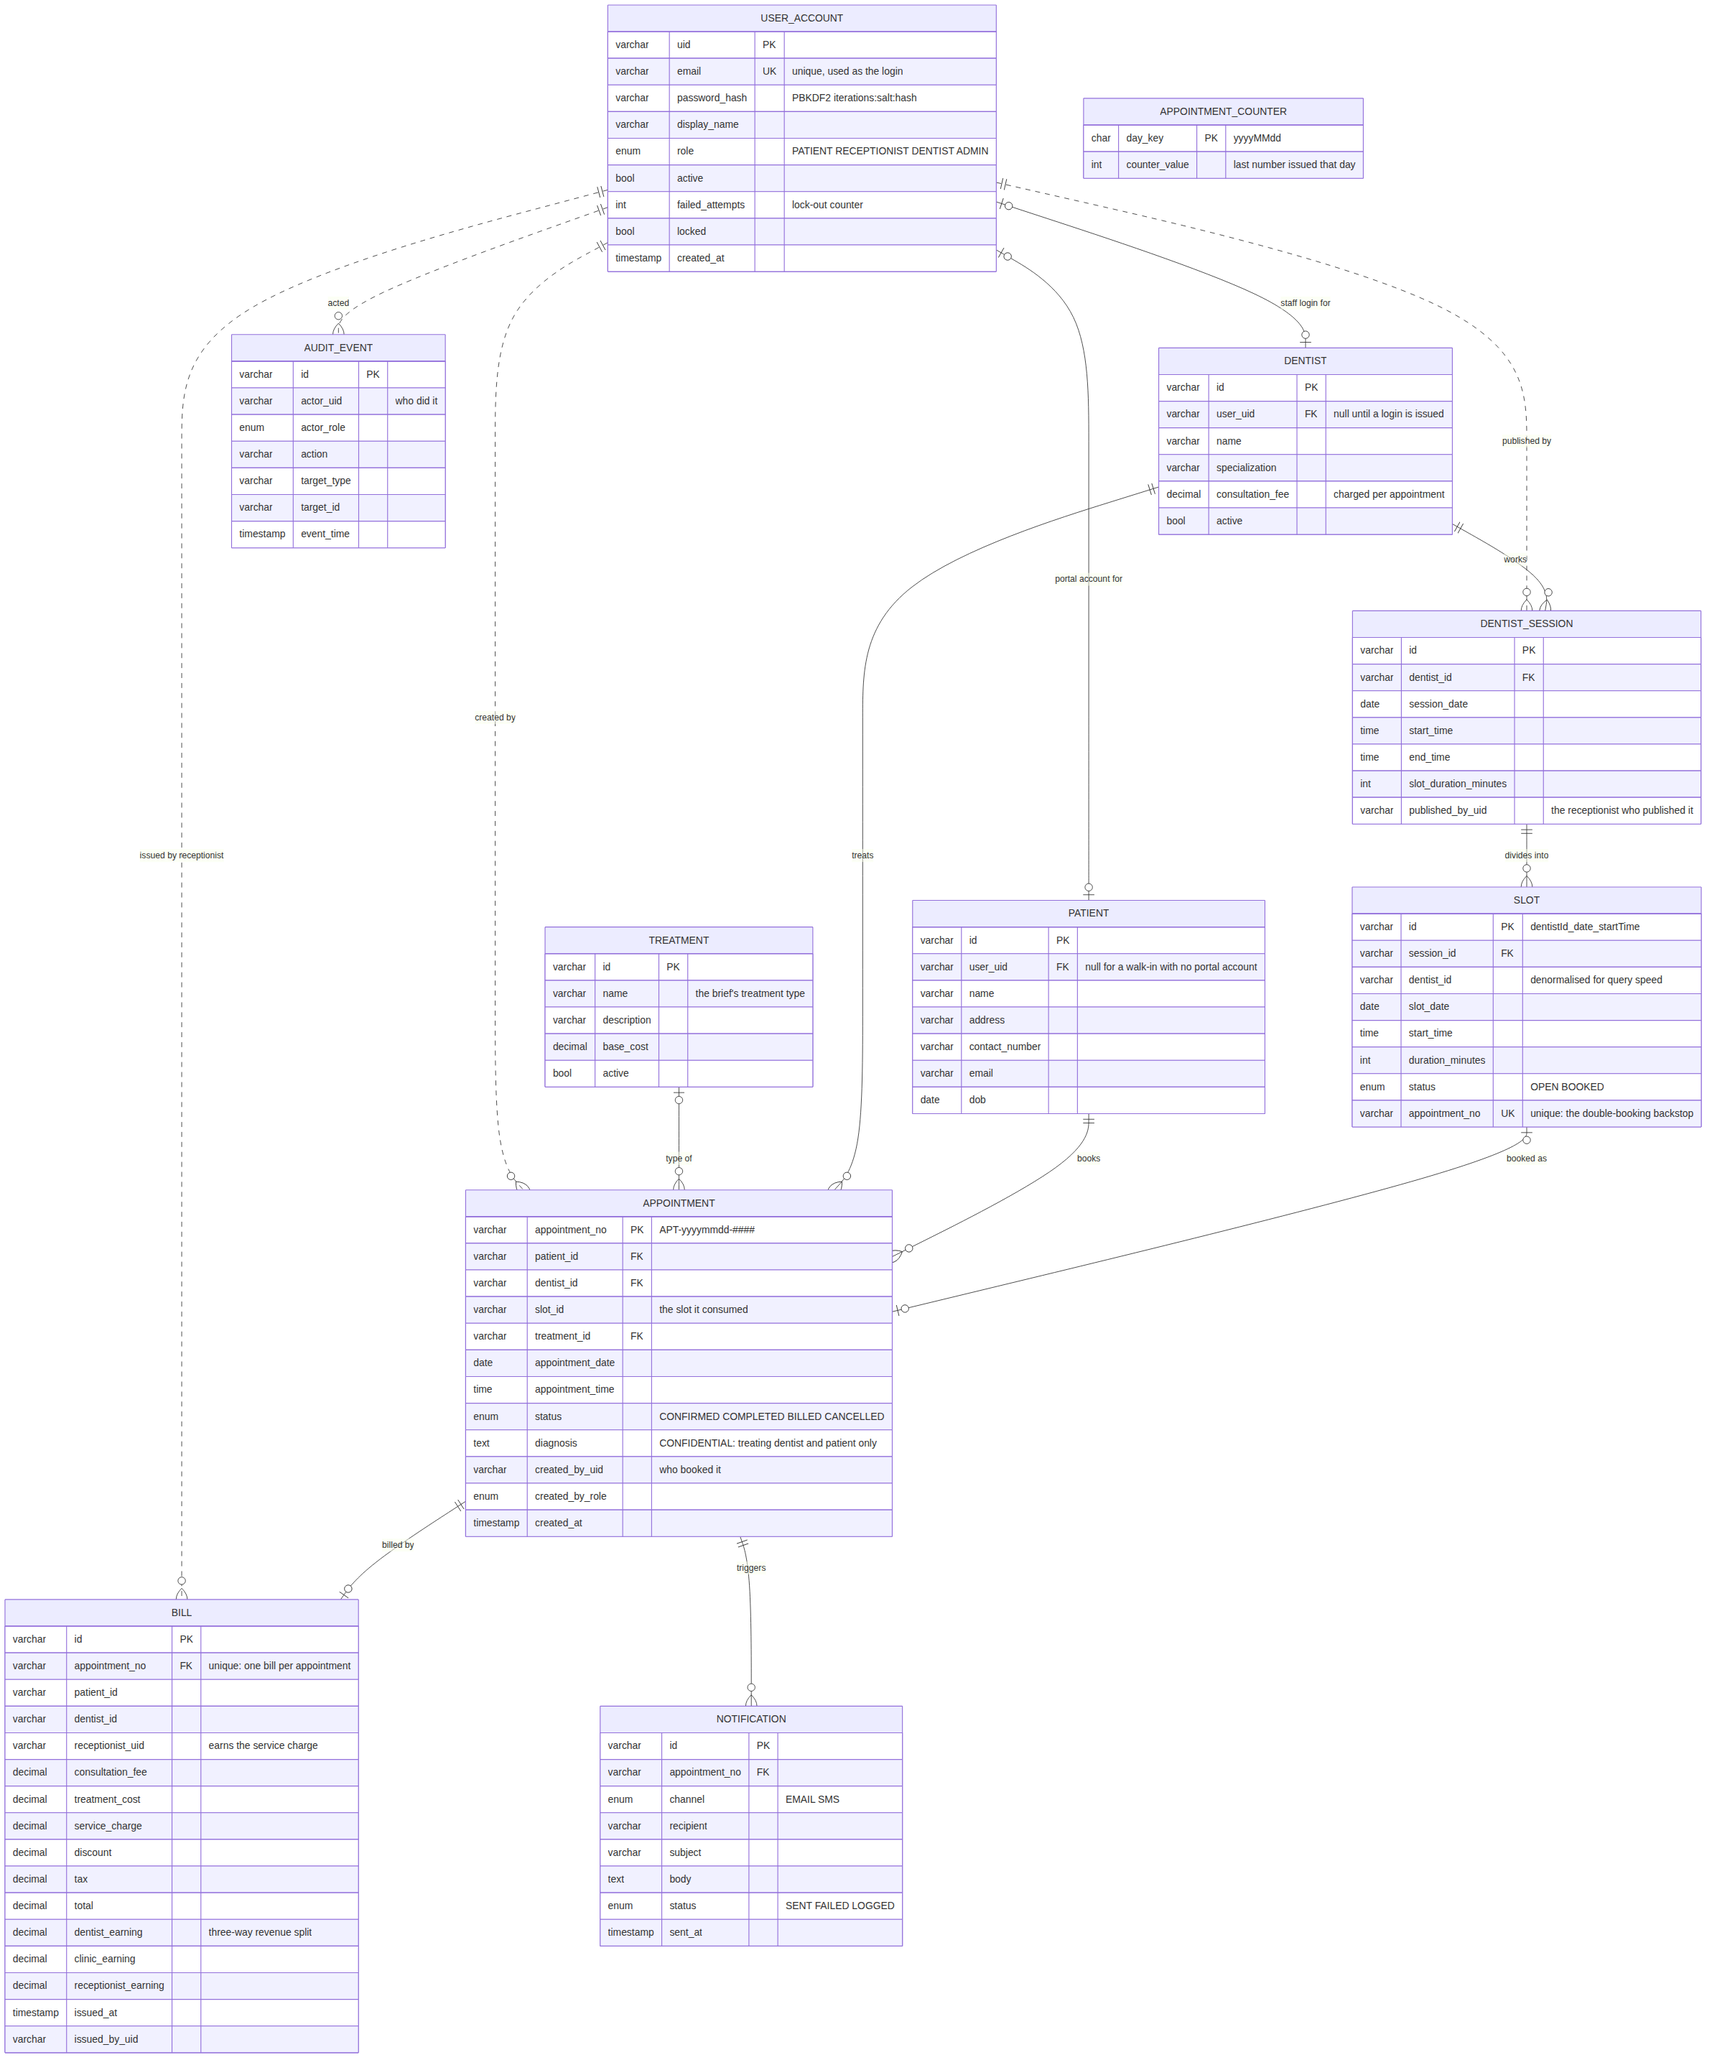
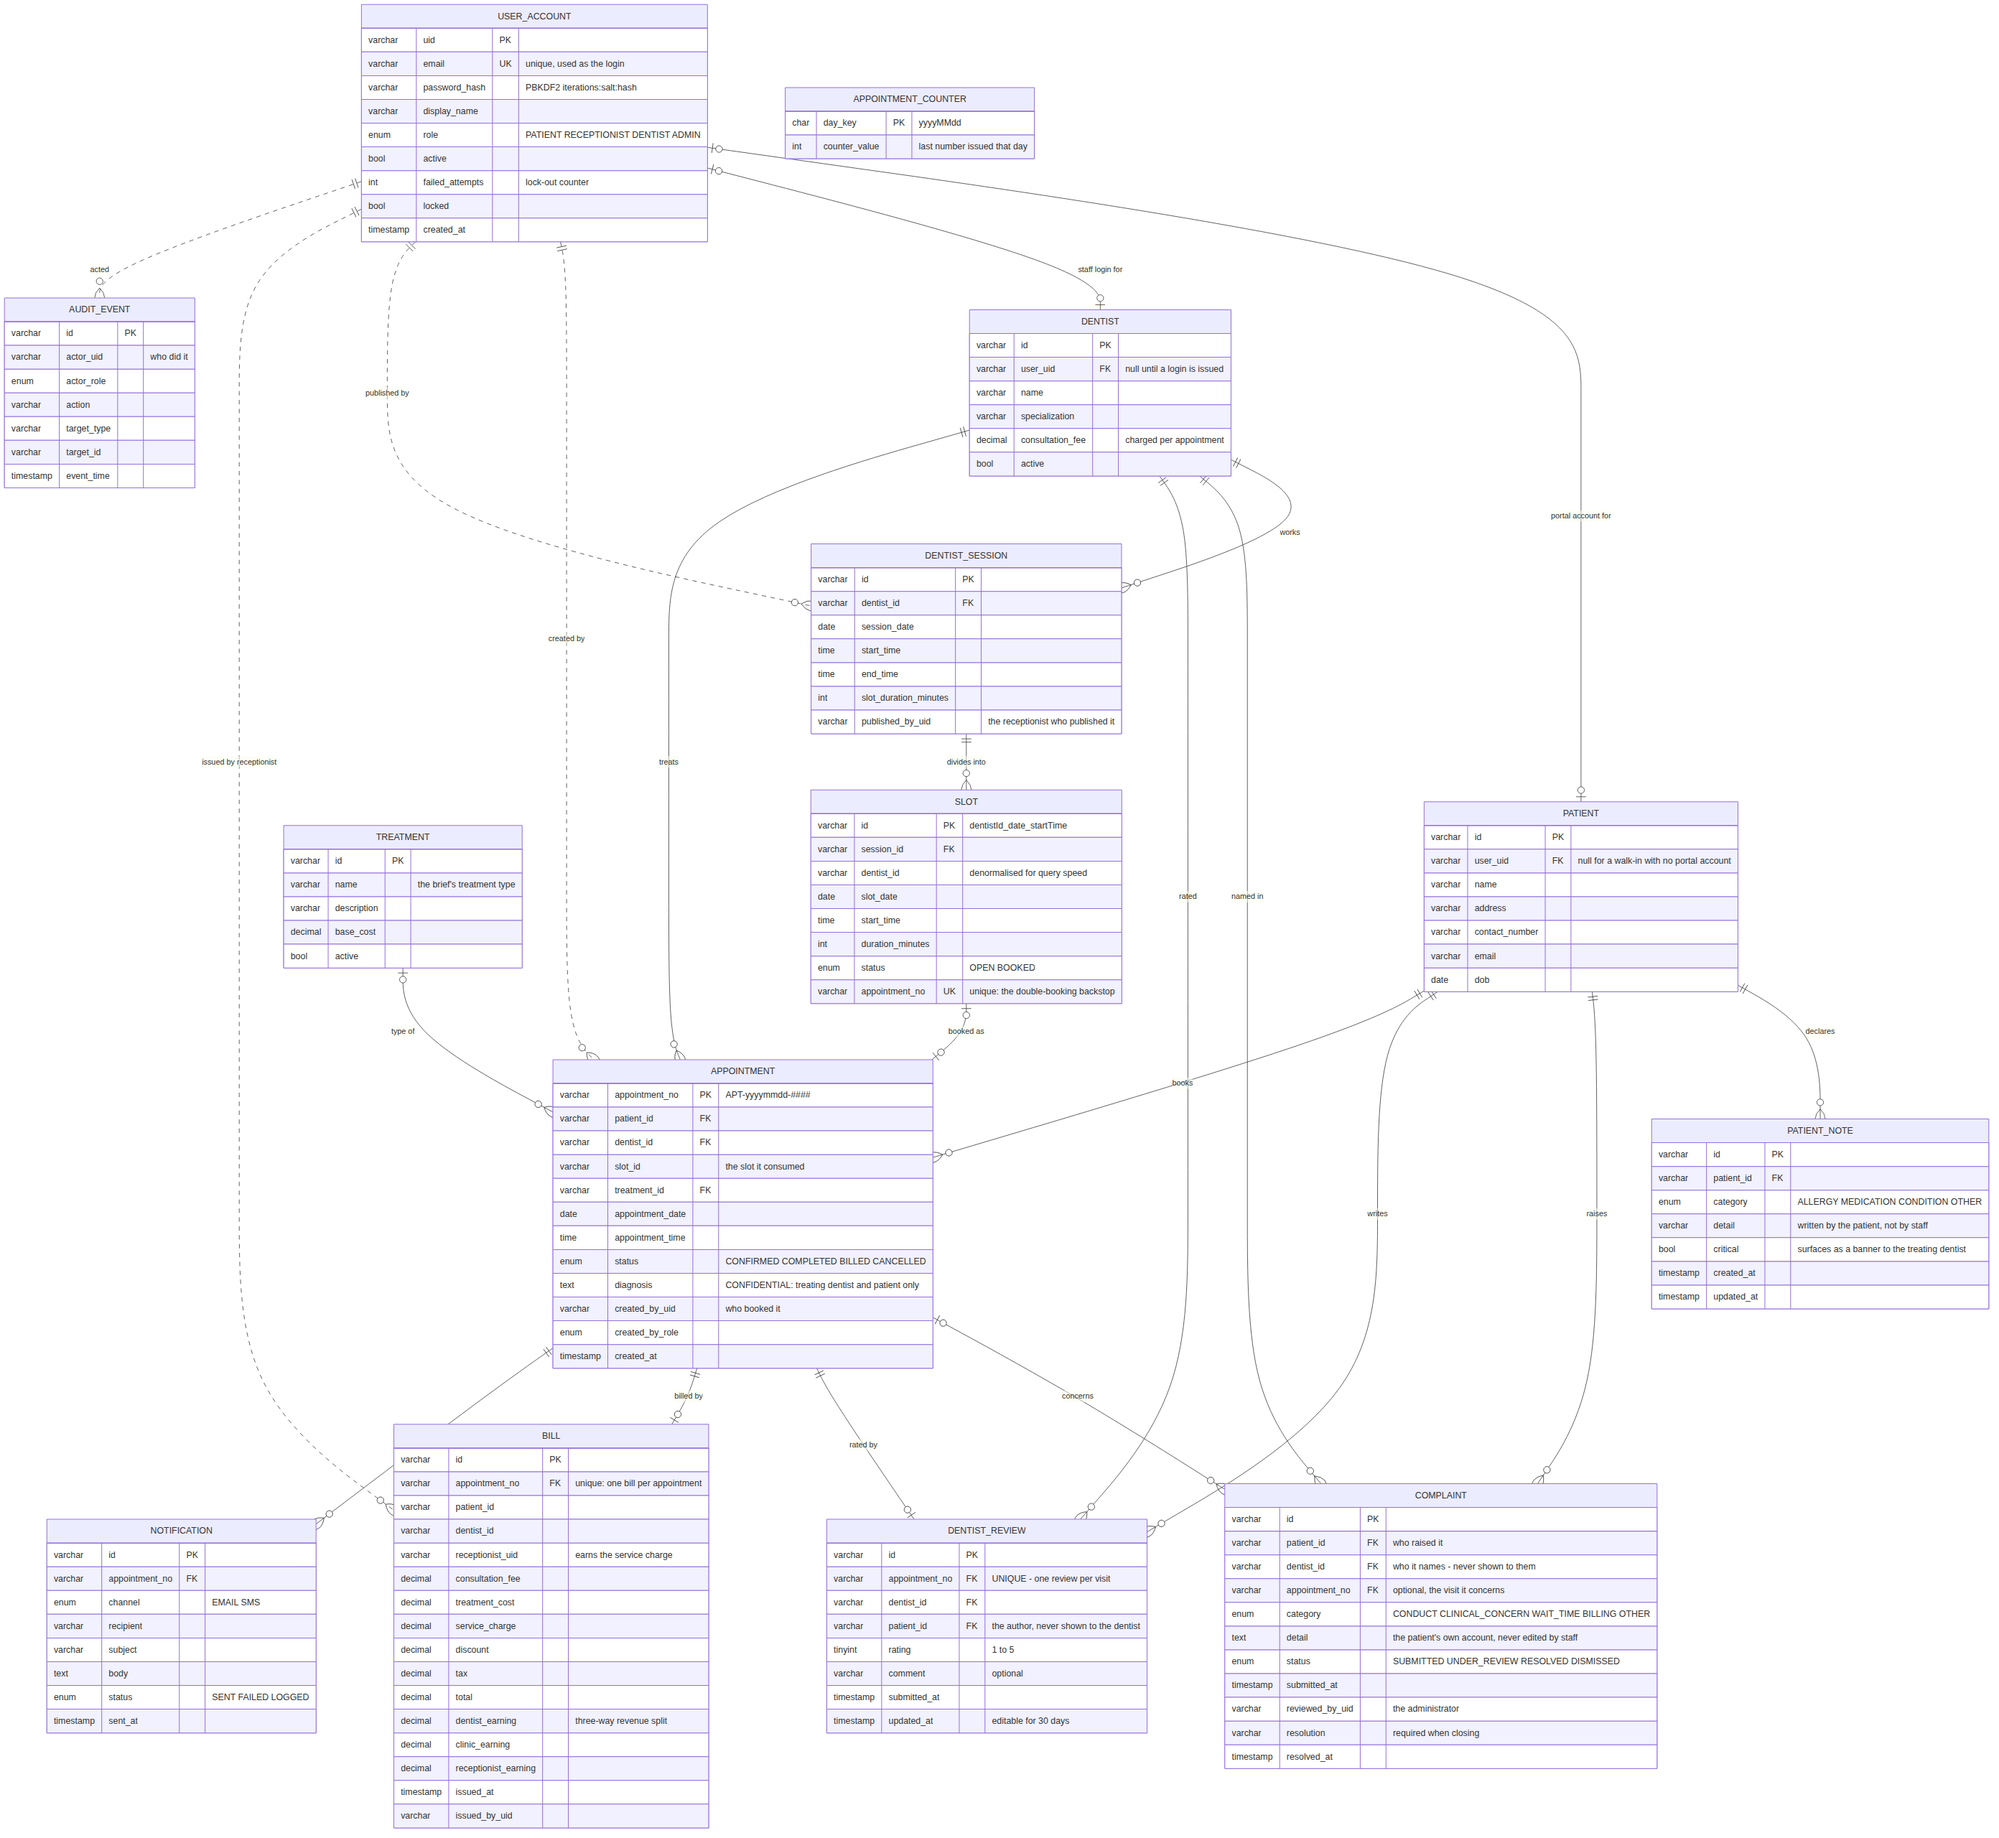
docs(er): three new tables for notes, complaints and reviews
Takes the schema from 11 tables to 14 and from 9 enforced foreign keys to 16.

- patient_note: what the patient declares about themselves, cascading with
  the patient. Composition, because a medical note is meaningless without
  the person it describes.
- complaint: keyed to the patient who raised it and the dentist named, with
  the appointment optional and ON DELETE SET NULL so a concern outlives a
  tidied appointment.
- dentist_review: UNIQUE on appointment_no, so one review per visit is
  enforced by the database rather than by a check that could be raced.

Also repoints the schema link at layered/, which the earlier folder split
broke, and corrects the mermaid source and rendered PNG to match.

The role access matrix now states the exclusions positively rather than
leaving them implied: reception never reads patient_note, complaint or
dentist_review; the administrator never reads patient_note; the dentist
never reads complaint and reads dentist_review only as an aggregate. One
table read at three different resolutions is why the dentist's response
object is a separate type and not a filtered one.

diff --git a/modular/docs/er-diagram.md b/modular/docs/er-diagram.md
@@ -1,10 +1,10 @@
 # Entity–Relationship Design
 
 Database design for the Sunrise Dental Clinic Appointment & Patient Management System.
-Eleven tables, MySQL 8, InnoDB throughout.
+Fourteen tables, MySQL 8, InnoDB throughout.
 
 This document is generated from the live schema in
-[`../src/main/resources/schema.sql`](../src/main/resources/schema.sql) — if the two ever
+[`../../layered/src/main/resources/schema.sql`](../../layered/src/main/resources/schema.sql) — if the two ever
 disagree, the schema is right and this file is stale.
 
 ---
@@ -96,6 +96,16 @@ erDiagram
         bool active
     }
 
+    PATIENT_NOTE {
+        varchar id PK
+        varchar patient_id FK
+        enum category "ALLERGY MEDICATION CONDITION OTHER"
+        varchar detail "written by the patient, not by staff"
+        bool critical "surfaces as a banner to the treating dentist"
+        timestamp created_at
+        timestamp updated_at
+    }
+
     DENTIST_SESSION {
         varchar id PK
         varchar dentist_id FK
@@ -162,6 +172,31 @@ erDiagram
         timestamp sent_at
     }
 
+    COMPLAINT {
+        varchar id PK
+        varchar patient_id FK "who raised it"
+        varchar dentist_id FK "who it names - never shown to them"
+        varchar appointment_no FK "optional, the visit it concerns"
+        enum category "CONDUCT CLINICAL_CONCERN WAIT_TIME BILLING OTHER"
+        text detail "the patient's own account, never edited by staff"
+        enum status "SUBMITTED UNDER_REVIEW RESOLVED DISMISSED"
+        timestamp submitted_at
+        varchar reviewed_by_uid "the administrator"
+        varchar resolution "required when closing"
+        timestamp resolved_at
+    }
+
+    DENTIST_REVIEW {
+        varchar id PK
+        varchar appointment_no FK "UNIQUE - one review per visit"
+        varchar dentist_id FK
+        varchar patient_id FK "the author, never shown to the dentist"
+        tinyint rating "1 to 5"
+        varchar comment "optional"
+        timestamp submitted_at
+        timestamp updated_at "editable for 30 days"
+    }
+
     AUDIT_EVENT {
         varchar id PK
         varchar actor_uid "who did it"
@@ -184,6 +219,13 @@ erDiagram
     DENTIST_SESSION ||--o{ SLOT         : "divides into"
     SLOT         |o--o| APPOINTMENT     : "booked as"
 
+    PATIENT      ||--o{ PATIENT_NOTE : "declares"
+    PATIENT      ||--o{ COMPLAINT : "raises"
+    DENTIST      ||--o{ COMPLAINT : "named in"
+    APPOINTMENT  |o--o{ COMPLAINT : "concerns"
+    APPOINTMENT  ||--o| DENTIST_REVIEW : "rated by"
+    DENTIST      ||--o{ DENTIST_REVIEW : "rated"
+    PATIENT      ||--o{ DENTIST_REVIEW : "writes"
     PATIENT      ||--o{ APPOINTMENT : "books"
     DENTIST      ||--o{ APPOINTMENT : "treats"
     TREATMENT    |o--o{ APPOINTMENT : "type of"
@@ -219,25 +261,42 @@ their own tables would create rows with nothing in them.
 
 | Role | Reads | Writes |
 |---|---|---|
-| **Patient** | own `appointment`, own `bill`, `slot` (open only), `dentist`, `treatment` | `appointment` (book, cancel), own `patient` row at registration |
-| **Receptionist** | all `patient`, `appointment`, `slot`, `dentist`, `treatment` | `patient` (walk-in), `dentist_session` + `slot` (publish availability), `appointment` (book on behalf), `bill` (issue) |
-| **Dentist** | own `slot`, own `appointment` incl. `diagnosis` | `appointment.diagnosis`, `appointment.status` → `COMPLETED` |
-| **Admin** | `bill` and `appointment` aggregates, `user_account`, `audit_event` | `user_account` (unlock, activate) |
+| **Patient** | own `appointment`, own `bill`, **own `patient_note`**, **own `complaint`**, **own `dentist_review`**, `slot` (open only), `dentist`, `treatment` | `appointment` (book, cancel), own `patient` row at registration, **own `patient_note`**, **insert `complaint`** |
+| **Receptionist** | all `patient`, `appointment`, `slot`, `dentist`, `treatment`. **Never `patient_note`, never `complaint`, never `dentist_review`** | `patient` (walk-in), `dentist_session` + `slot` (publish availability), `appointment` (book on behalf), `bill` (issue) |
+| **Dentist** | own `slot`, own `appointment` incl. `diagnosis`, **`patient_note` for patients on their own schedule**. **Never `complaint`, including complaints naming them**. **`dentist_review` as an aggregate only** — mean and count, never a row | `appointment.diagnosis`, `appointment.status` → `COMPLETED` |
+| **Admin** | `bill` and `appointment` aggregates, `user_account`, `audit_event`, **all `complaint`**, **all `dentist_review`** including comments. **Never `patient_note`** | `user_account` (unlock, deactivate), `complaint.status` and `complaint.resolution` |
 
-Two constraints on that table are enforced in code rather than in the schema, and both are
-worth stating in the report:
+Three constraints are enforced in code rather than in the schema, and all three are worth
+stating in the report:
 
 - **`appointment.diagnosis` is field-level confidential.** Only the treating dentist and the
   patient may see it. Enforced by serving a different DTO to everyone else, so the column
   cannot leak through a shared response object by accident.
+- **`patient_note` is confidential at the table level**, not the field level. It is readable
+  only by the patient who wrote it and by a dentist treating them. Reception books the
+  appointment without ever learning the patient is allergic to penicillin; the administrator
+  reads revenue without seeing any clinical fact. Enforced the same way — no response object
+  served to those roles carries a field for it.
+- **`complaint` is confidential in the opposite direction to `patient_note`.** The administrator
+  reads it; the dentist it names never does, and neither does reception. Two tables, two rules
+  pointing opposite ways, and neither follows from seniority — access follows purpose. The
+  dentist has clinical need of an allergy; independence requires that the subject of a complaint
+  cannot read it.
+- **`dentist_review` is the one table read at three different resolutions.** The administrator
+  reads rows with comments and authors; the dentist reads a mean and a count and nothing else
+  (**NFR-SEC-13**); reception reads nothing. Same table, three answers — which is why the
+  aggregate is a separate query rather than a filter over the row response, and why the dentist's
+  response object has no field that could carry a comment.
 - **Every mutation writes an `audit_event`** carrying the actor's uid and role, which is how
-  a paper-trail question ("who moved this appointment?") is answerable at all.
+  a paper-trail question ("who moved this appointment?") is answerable at all. Every *read* of a
+  complaint is audited too (**FR-CMP-11**) — unusual, and justified because the data is sensitive
+  enough that who looked at it matters.
 
 ---
 
 ## 4. Referential integrity — enforced and not
 
-Nine foreign keys are declared:
+Sixteen foreign keys are declared:
 
 | Constraint | From | To |
 |---|---|---|
@@ -245,6 +304,13 @@ Nine foreign keys are declared:
 | `fk_dentist_user` | `dentist.user_uid` | `user_account.uid` |
 | `fk_session_dentist` | `dentist_session.dentist_id` | `dentist.id` |
 | `fk_slot_session` | `slot.session_id` | `dentist_session.id` |
+| `fk_note_patient` | `patient_note.patient_id` | `patient.id` |
+| `fk_complaint_patient` | `complaint.patient_id` | `patient.id` |
+| `fk_complaint_dentist` | `complaint.dentist_id` | `dentist.id` |
+| `fk_complaint_appointment` | `complaint.appointment_no` | `appointment.appointment_no`, `ON DELETE SET NULL` |
+| `fk_review_appointment` | `dentist_review.appointment_no` | `appointment.appointment_no`, `UNIQUE` |
+| `fk_review_dentist` | `dentist_review.dentist_id` | `dentist.id` |
+| `fk_review_patient` | `dentist_review.patient_id` | `patient.id` |
 | `fk_appt_patient` | `appointment.patient_id` | `patient.id` |
 | `fk_appt_dentist` | `appointment.dentist_id` | `dentist.id` |
 | `fk_appt_treatment` | `appointment.treatment_id` | `treatment.id` |
@@ -292,6 +358,13 @@ example than a trigger invented for the sake of having one.
 | `DENTIST` — `DENTIST_SESSION` | 1 to many. A dentist works many published sessions. |
 | `DENTIST_SESSION` — `SLOT` | 1 to many. A session divides into fixed-length slots. |
 | `SLOT` — `APPOINTMENT` | 0..1 to 0..1. A slot is open or holds exactly one appointment. |
+| `PATIENT` — `PATIENT_NOTE` | 1 to 0..*. Declared by the patient after signing in, never at registration. Cascades on delete. |
+| `PATIENT` — `COMPLAINT` | 1 to 0..*. Raised by the patient, never edited by them afterwards. |
+| `DENTIST` — `COMPLAINT` | 1 to 0..*. The dentist named. **No query path exists from a dentist to this table.** |
+| `APPOINTMENT` — `COMPLAINT` | 0..1 to 0..*. Optional. `SET NULL` so a complaint outlives a tidied appointment (**FR-DAT-06**). |
+| `APPOINTMENT` — `DENTIST_REVIEW` | 1 to 0..1. `UNIQUE (appointment_no)` is what enforces one review per visit (**FR-DAT-07**), rather than a check that could be raced. |
+| `DENTIST` — `DENTIST_REVIEW` | 1 to 0..*. The dentist reads an aggregate of these rows and never a row. |
+| `PATIENT` — `DENTIST_REVIEW` | 1 to 0..*. The author. **No query path exists from a dentist to this column.** |
 | `PATIENT` — `APPOINTMENT` | 1 to many. |
 | `DENTIST` — `APPOINTMENT` | 1 to many. |
 | `TREATMENT` — `APPOINTMENT` | 0..1 to many. Treatment is decided at booking and may be null until then. |
@@ -309,6 +382,6 @@ in [`er-diagram.mmd`](er-diagram.mmd) for pasting into a report or any Mermaid r
 To check this document still matches reality:
 
 ```bash
-grep -c 'CREATE TABLE' layered/src/main/resources/schema.sql   # expect 11
-grep -c 'FOREIGN KEY'  layered/src/main/resources/schema.sql   # expect 9
+grep -c 'CREATE TABLE' modular/src/main/resources/schema.sql   # expect 14
+grep -c 'FOREIGN KEY'  modular/src/main/resources/schema.sql   # expect 16
 ```
